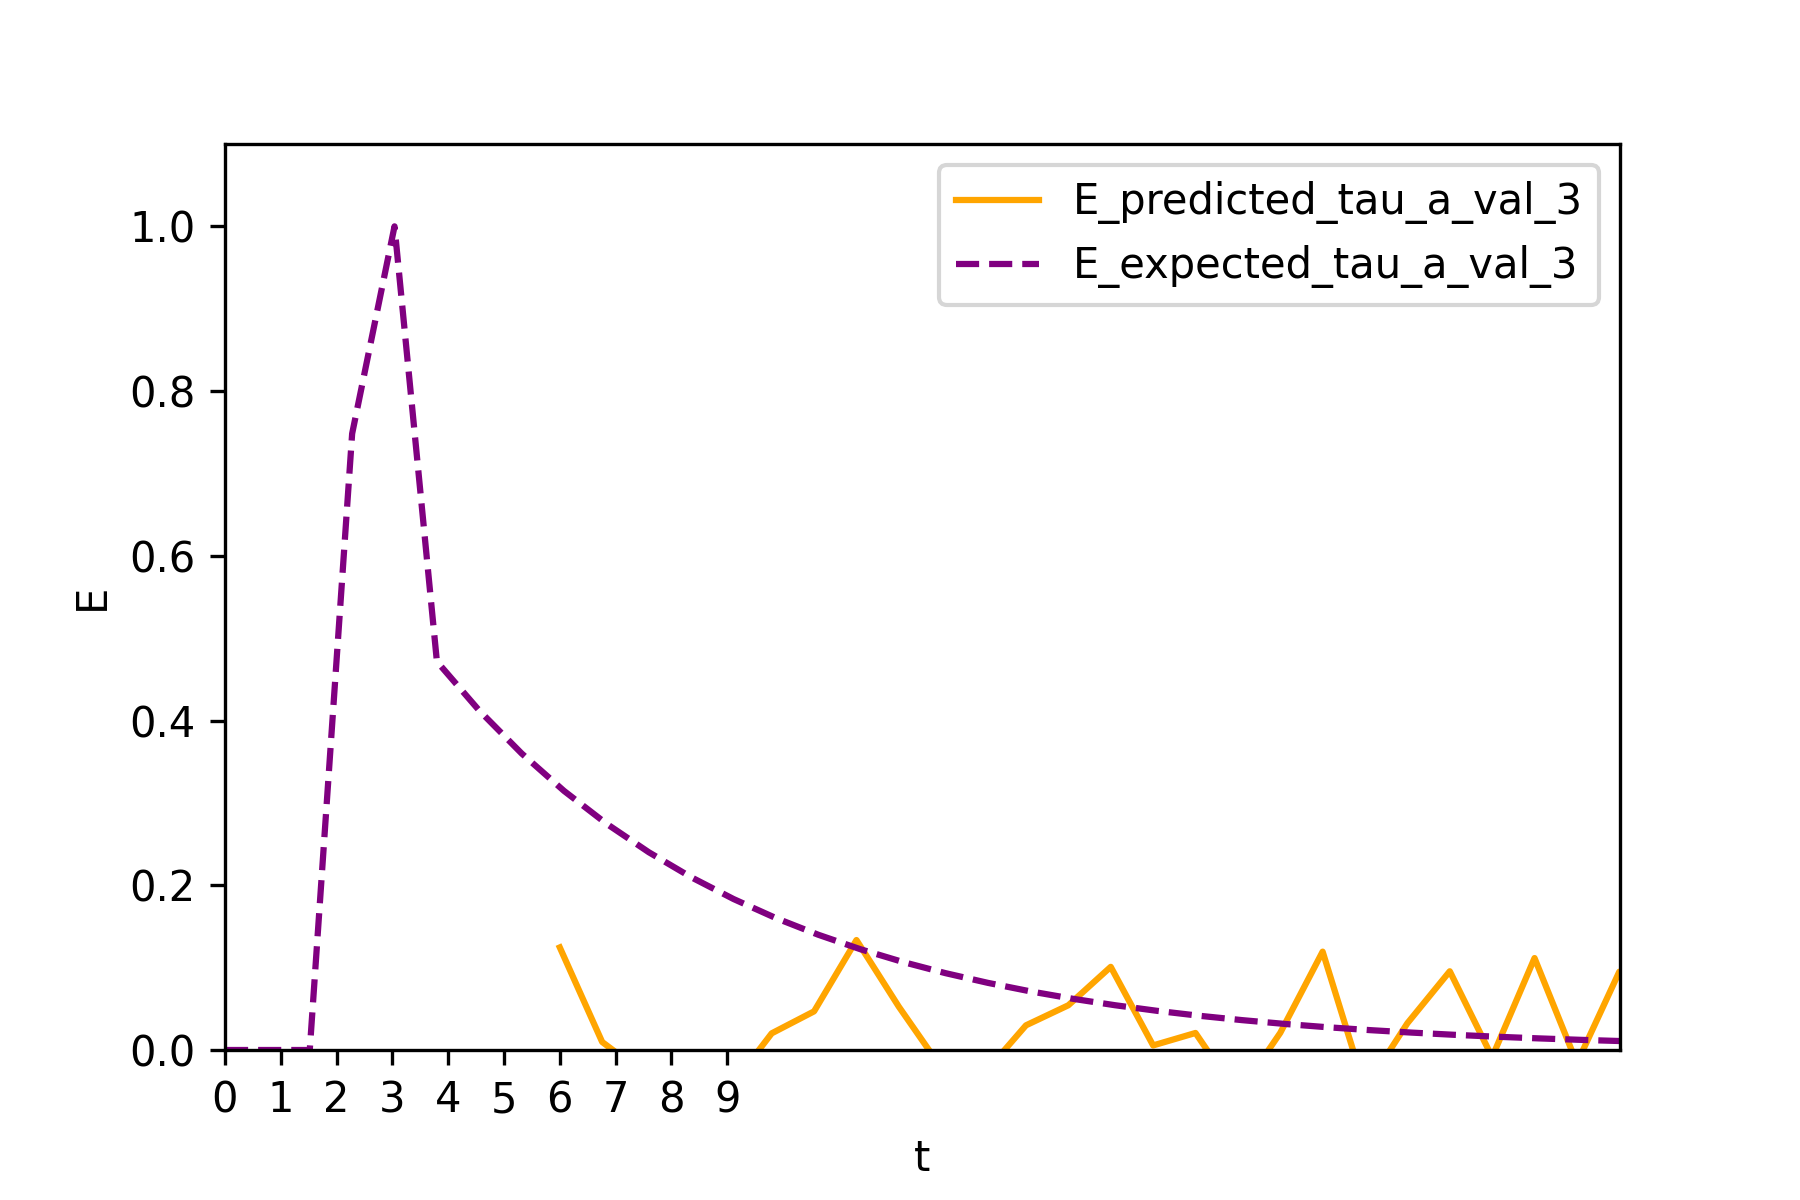
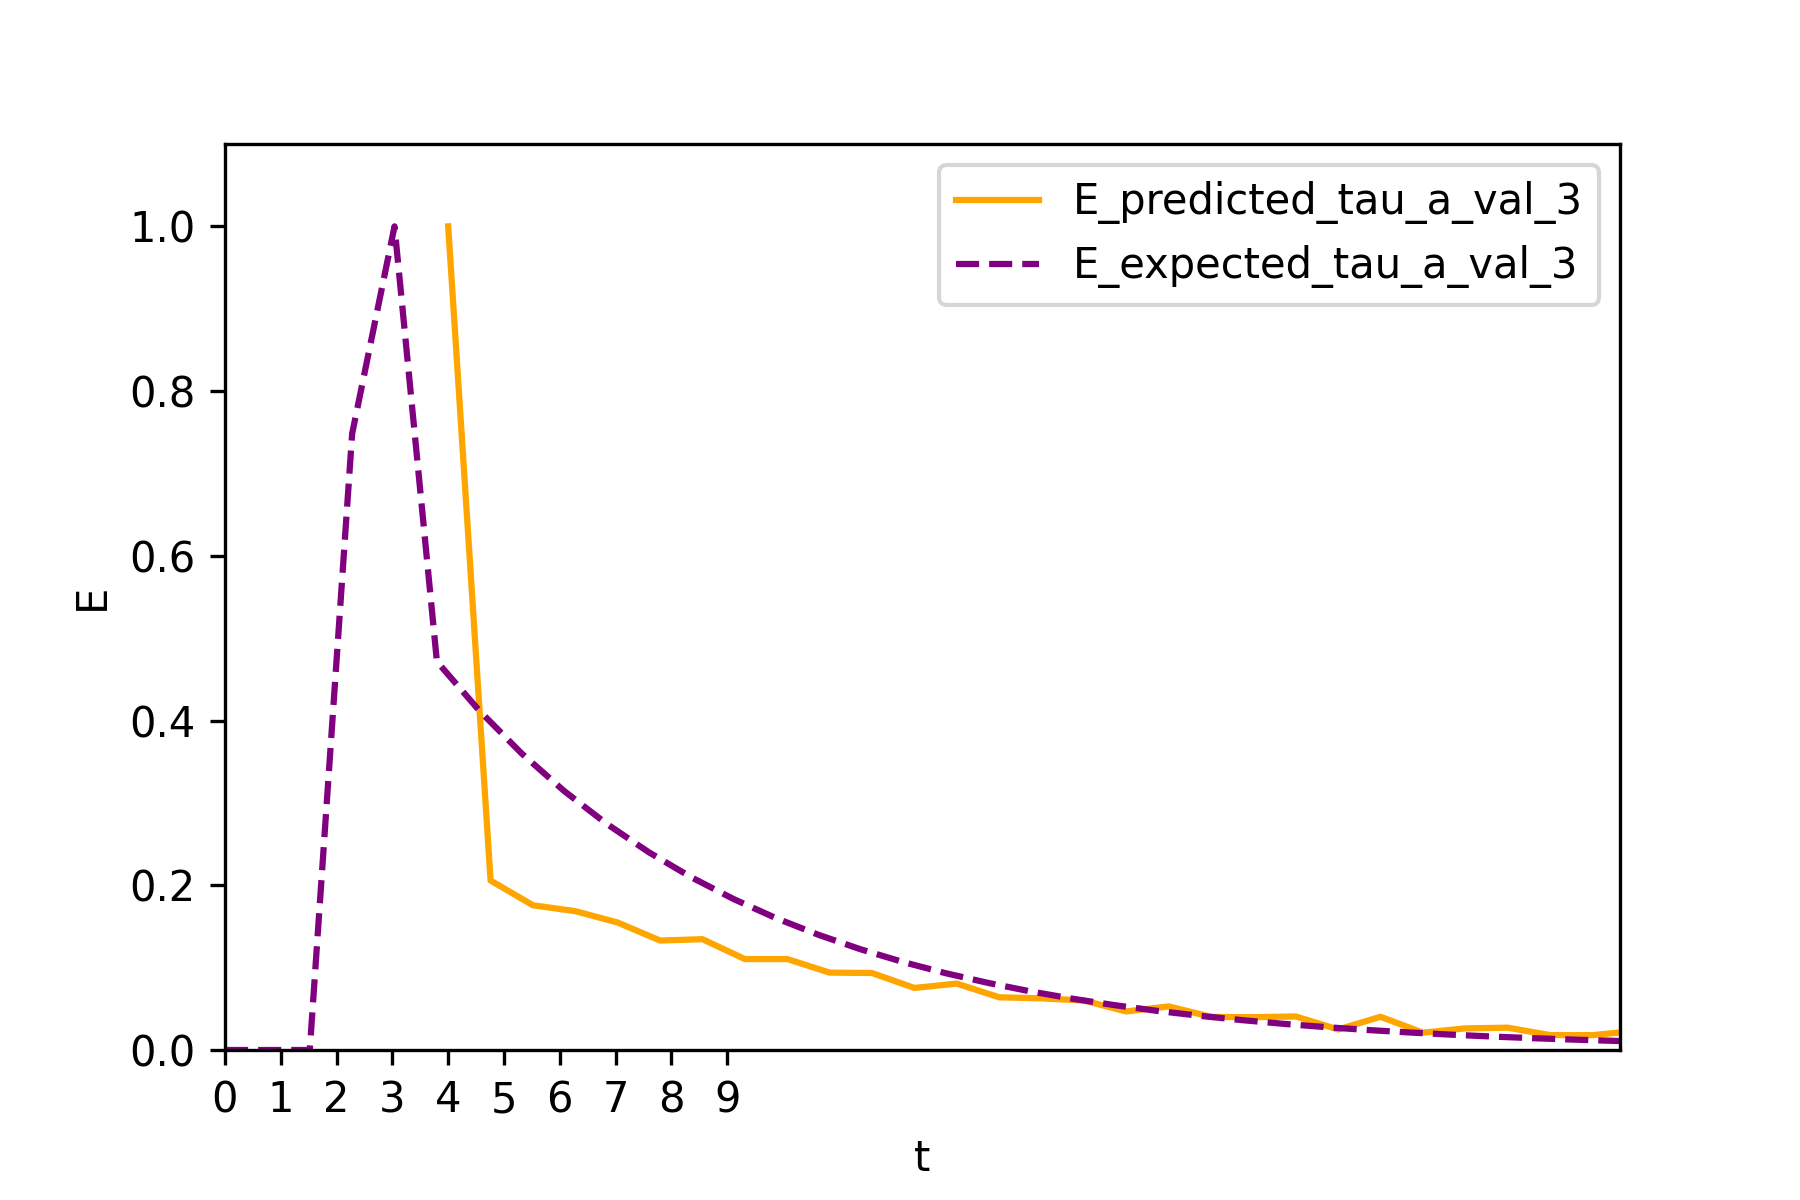
Cholete

diff --git a/Experiments/Preliminary/Convolution_script/Convolution_015_Cholete_Model/Conv_Cholete_015.py b/Experiments/Preliminary/Convolution_script/Convolution_015_Cholete_Model/Conv_Cholete_015.py
@@ -71,7 +71,7 @@ dl = DataLoader(ds, batch_size=20, shuffle=True)
 
 trainer = pl.Trainer(
     accelerator="auto",
-    max_epochs=10, deterministic=True
+    max_epochs=10000, deterministic=True
 )
 
 trainer.fit(model, dl)
@@ -80,7 +80,7 @@ trainer.test(model, dl)
 c_conv = model(c_in)
 E = model.net.E[0]
 t_E = torch.linspace(0, 60, model.kernel_size)
-# E = E / E.max()
+E = E / E.max()
 
 def Cholete(t: npt.NDArray[np.float64], alpha: float, beta: float, tau: float, g: float) -> npt.NDArray[np.float64]: 
     shifted_t = t
@@ -95,7 +95,7 @@ def Cholete(t: npt.NDArray[np.float64], alpha: float, beta: float, tau: float, g
     return F, E_expected
 
 alpha = 0.2
-beta = 0.9 
+beta = 0.9
 tau = 5
 g = 2.5
 t_values = torch.linspace(0, 60, 80).numpy()
@@ -160,7 +160,7 @@ print("E_predicted",predicted_E)
 print("E_expected",expected_E)
 predicted_E = np.load('/Users/tuanaoyuncu/Documents/GitHub/nRTD/Experiments/Preliminary/Convolution_script/Convolution_015_Cholete_Model/Bo_0.9/E_predicted_Bo_9.npy')
 predicted_time = np.load('/Users/tuanaoyuncu/Documents/GitHub/nRTD/Experiments/Preliminary/Convolution_script/Convolution_015_Cholete_Model/Bo_0.9/t_E_predicted_Bo_9.npy')
-plt.plot(predicted_time+6, predicted_E, label='E_predicted_tau_a_val_3', color='orange')
+plt.plot(predicted_time+4, predicted_E, label='E_predicted_tau_a_val_3', color='orange')
 plt.plot(expected_time, expected_E, label='E_expected_tau_a_val_3', color='purple', linestyle='--')
 plt.xlabel('t')
 plt.ylabel('E')
